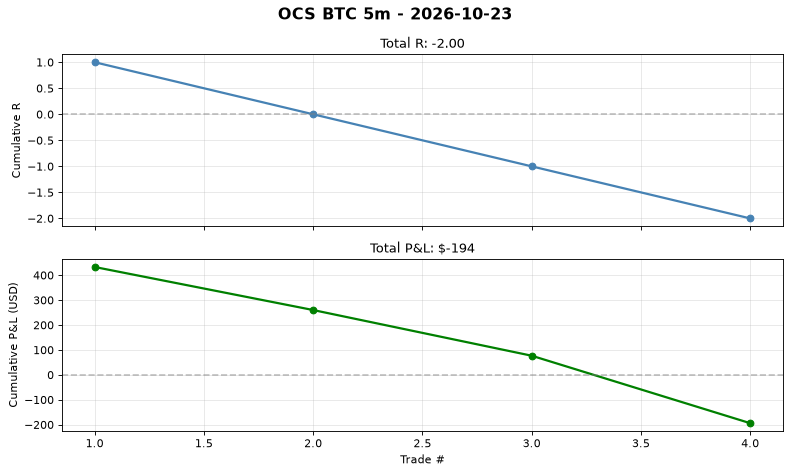
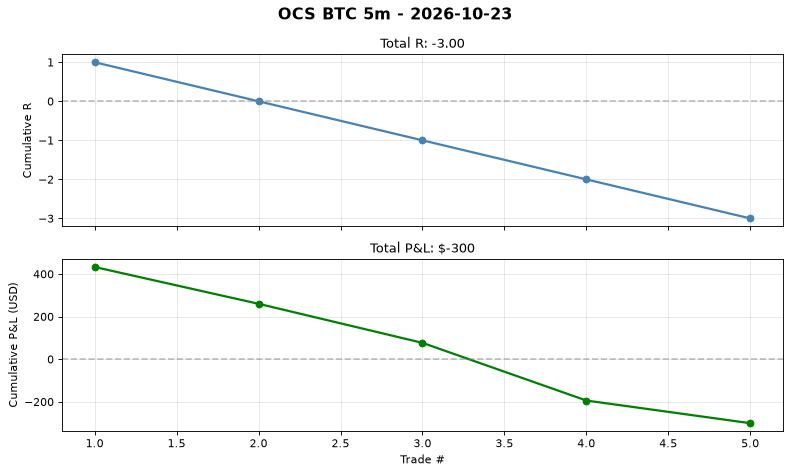
auto(ocs-btc): signal log 2026-10-22T22:13 trades=5

diff --git a/automation/reports/ocs_btc_5m/daily/2026-10-23.md b/automation/reports/ocs_btc_5m/daily/2026-10-23.md
@@ -2,4 +2,4 @@
 
 **No trades today.**
 
-Cumulative stats: 4 trades | WR 25.0% | avg R -0.5
+Cumulative stats: 5 trades | WR 20.0% | avg R -0.6
